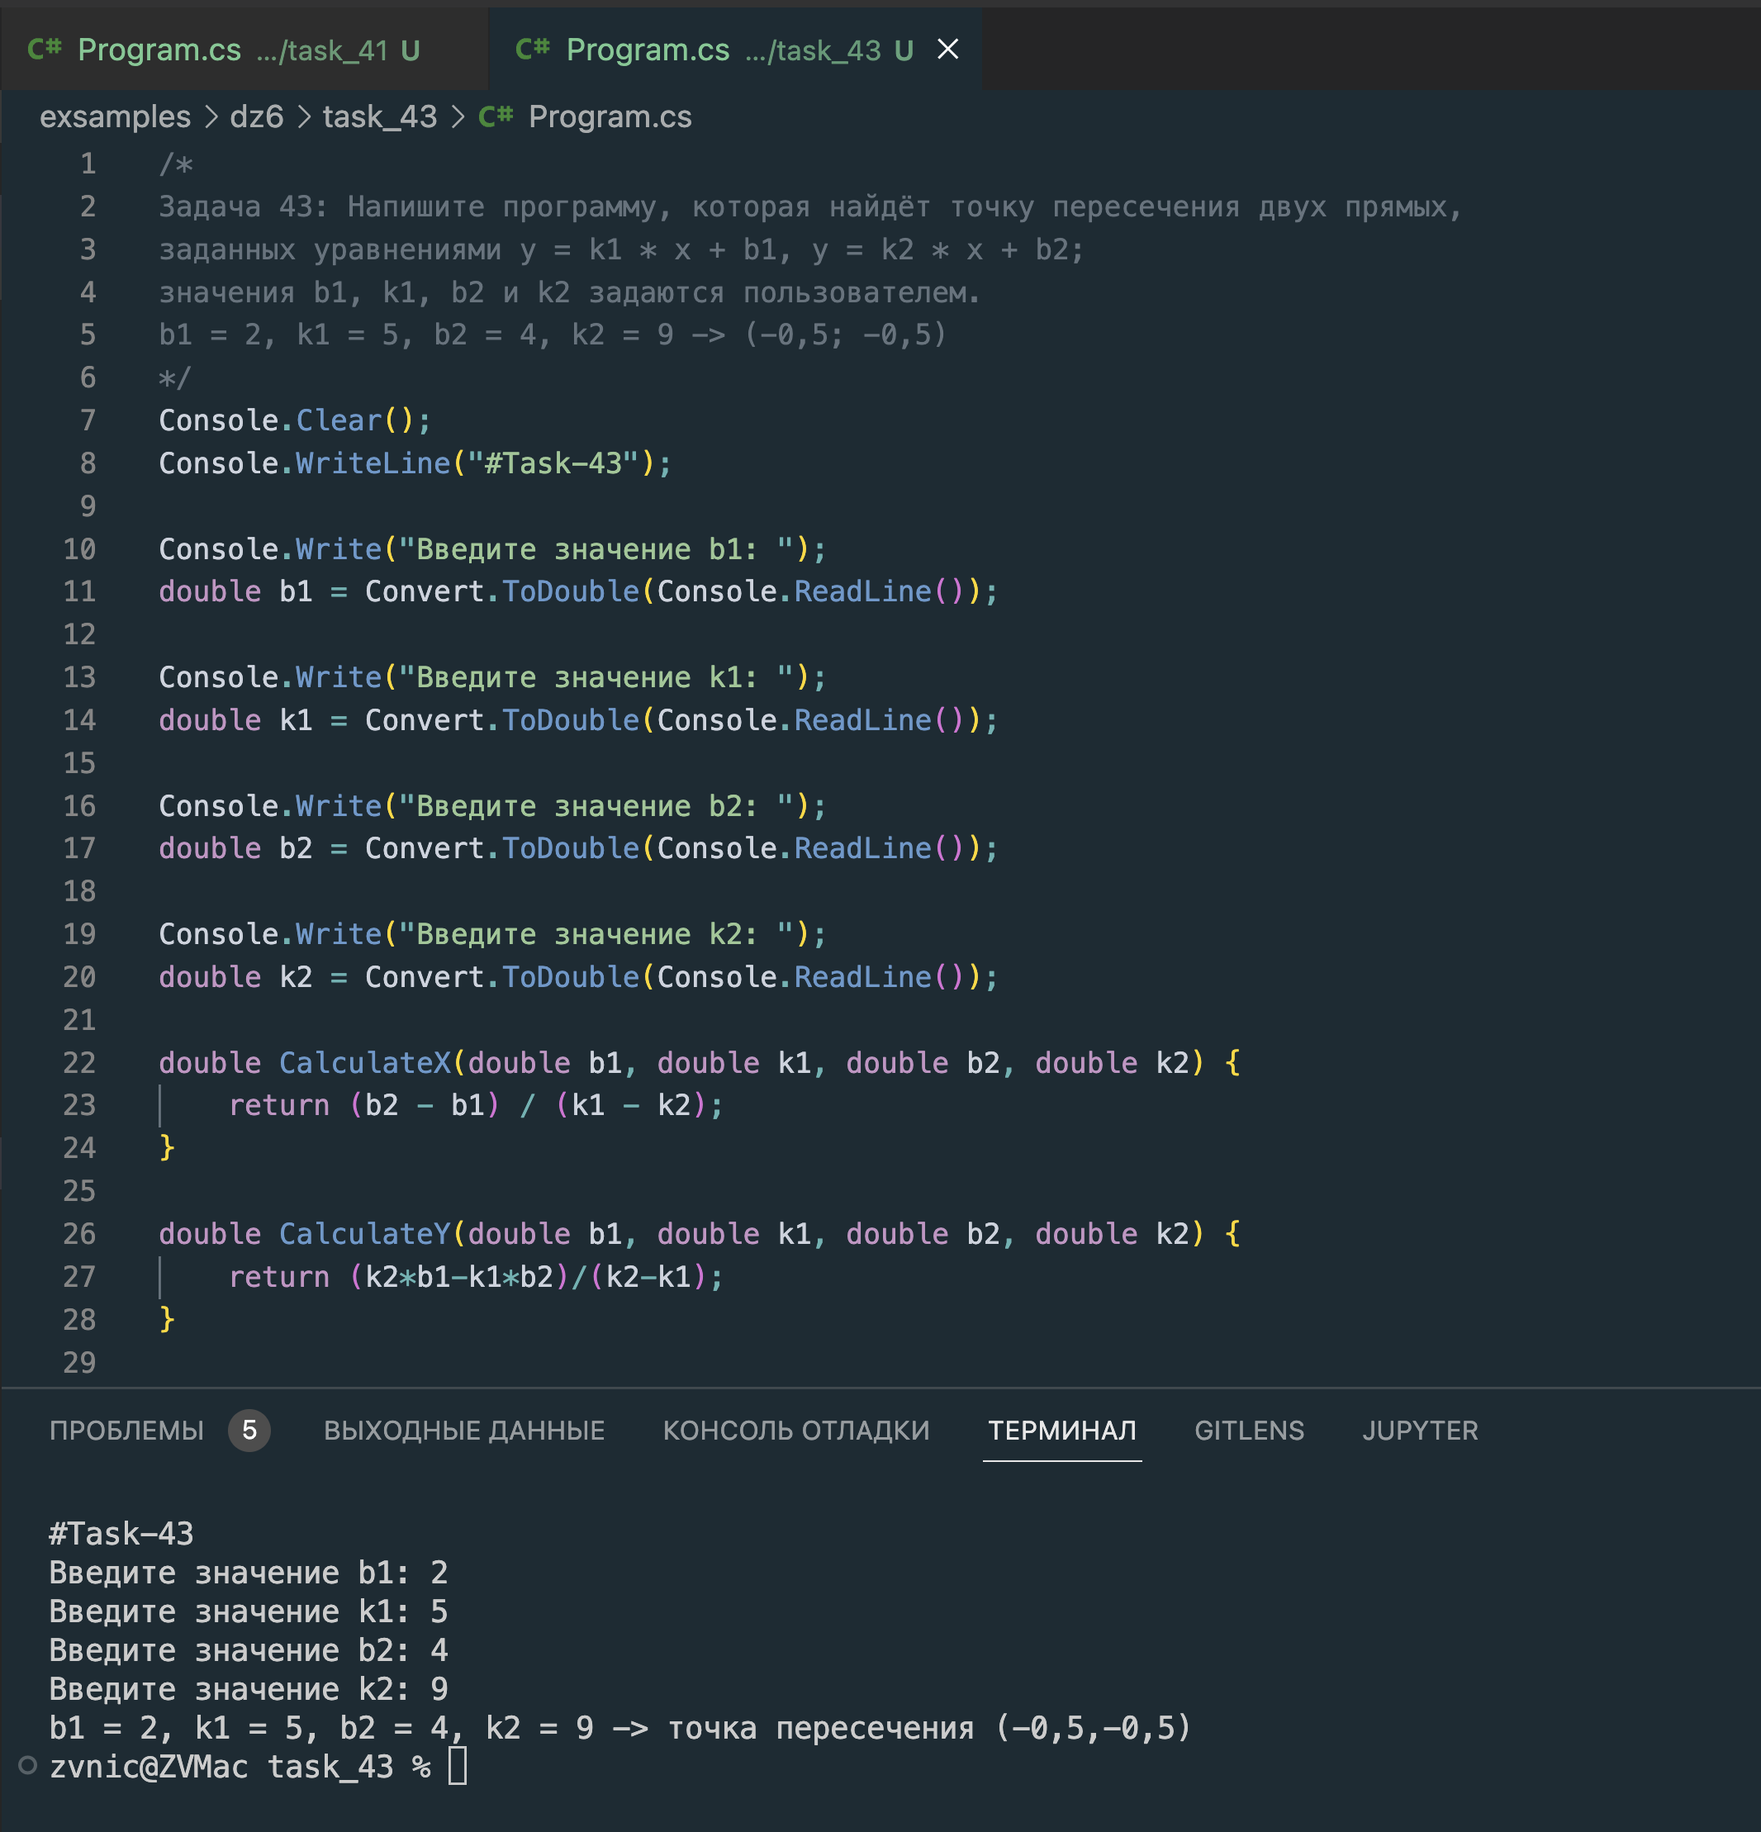
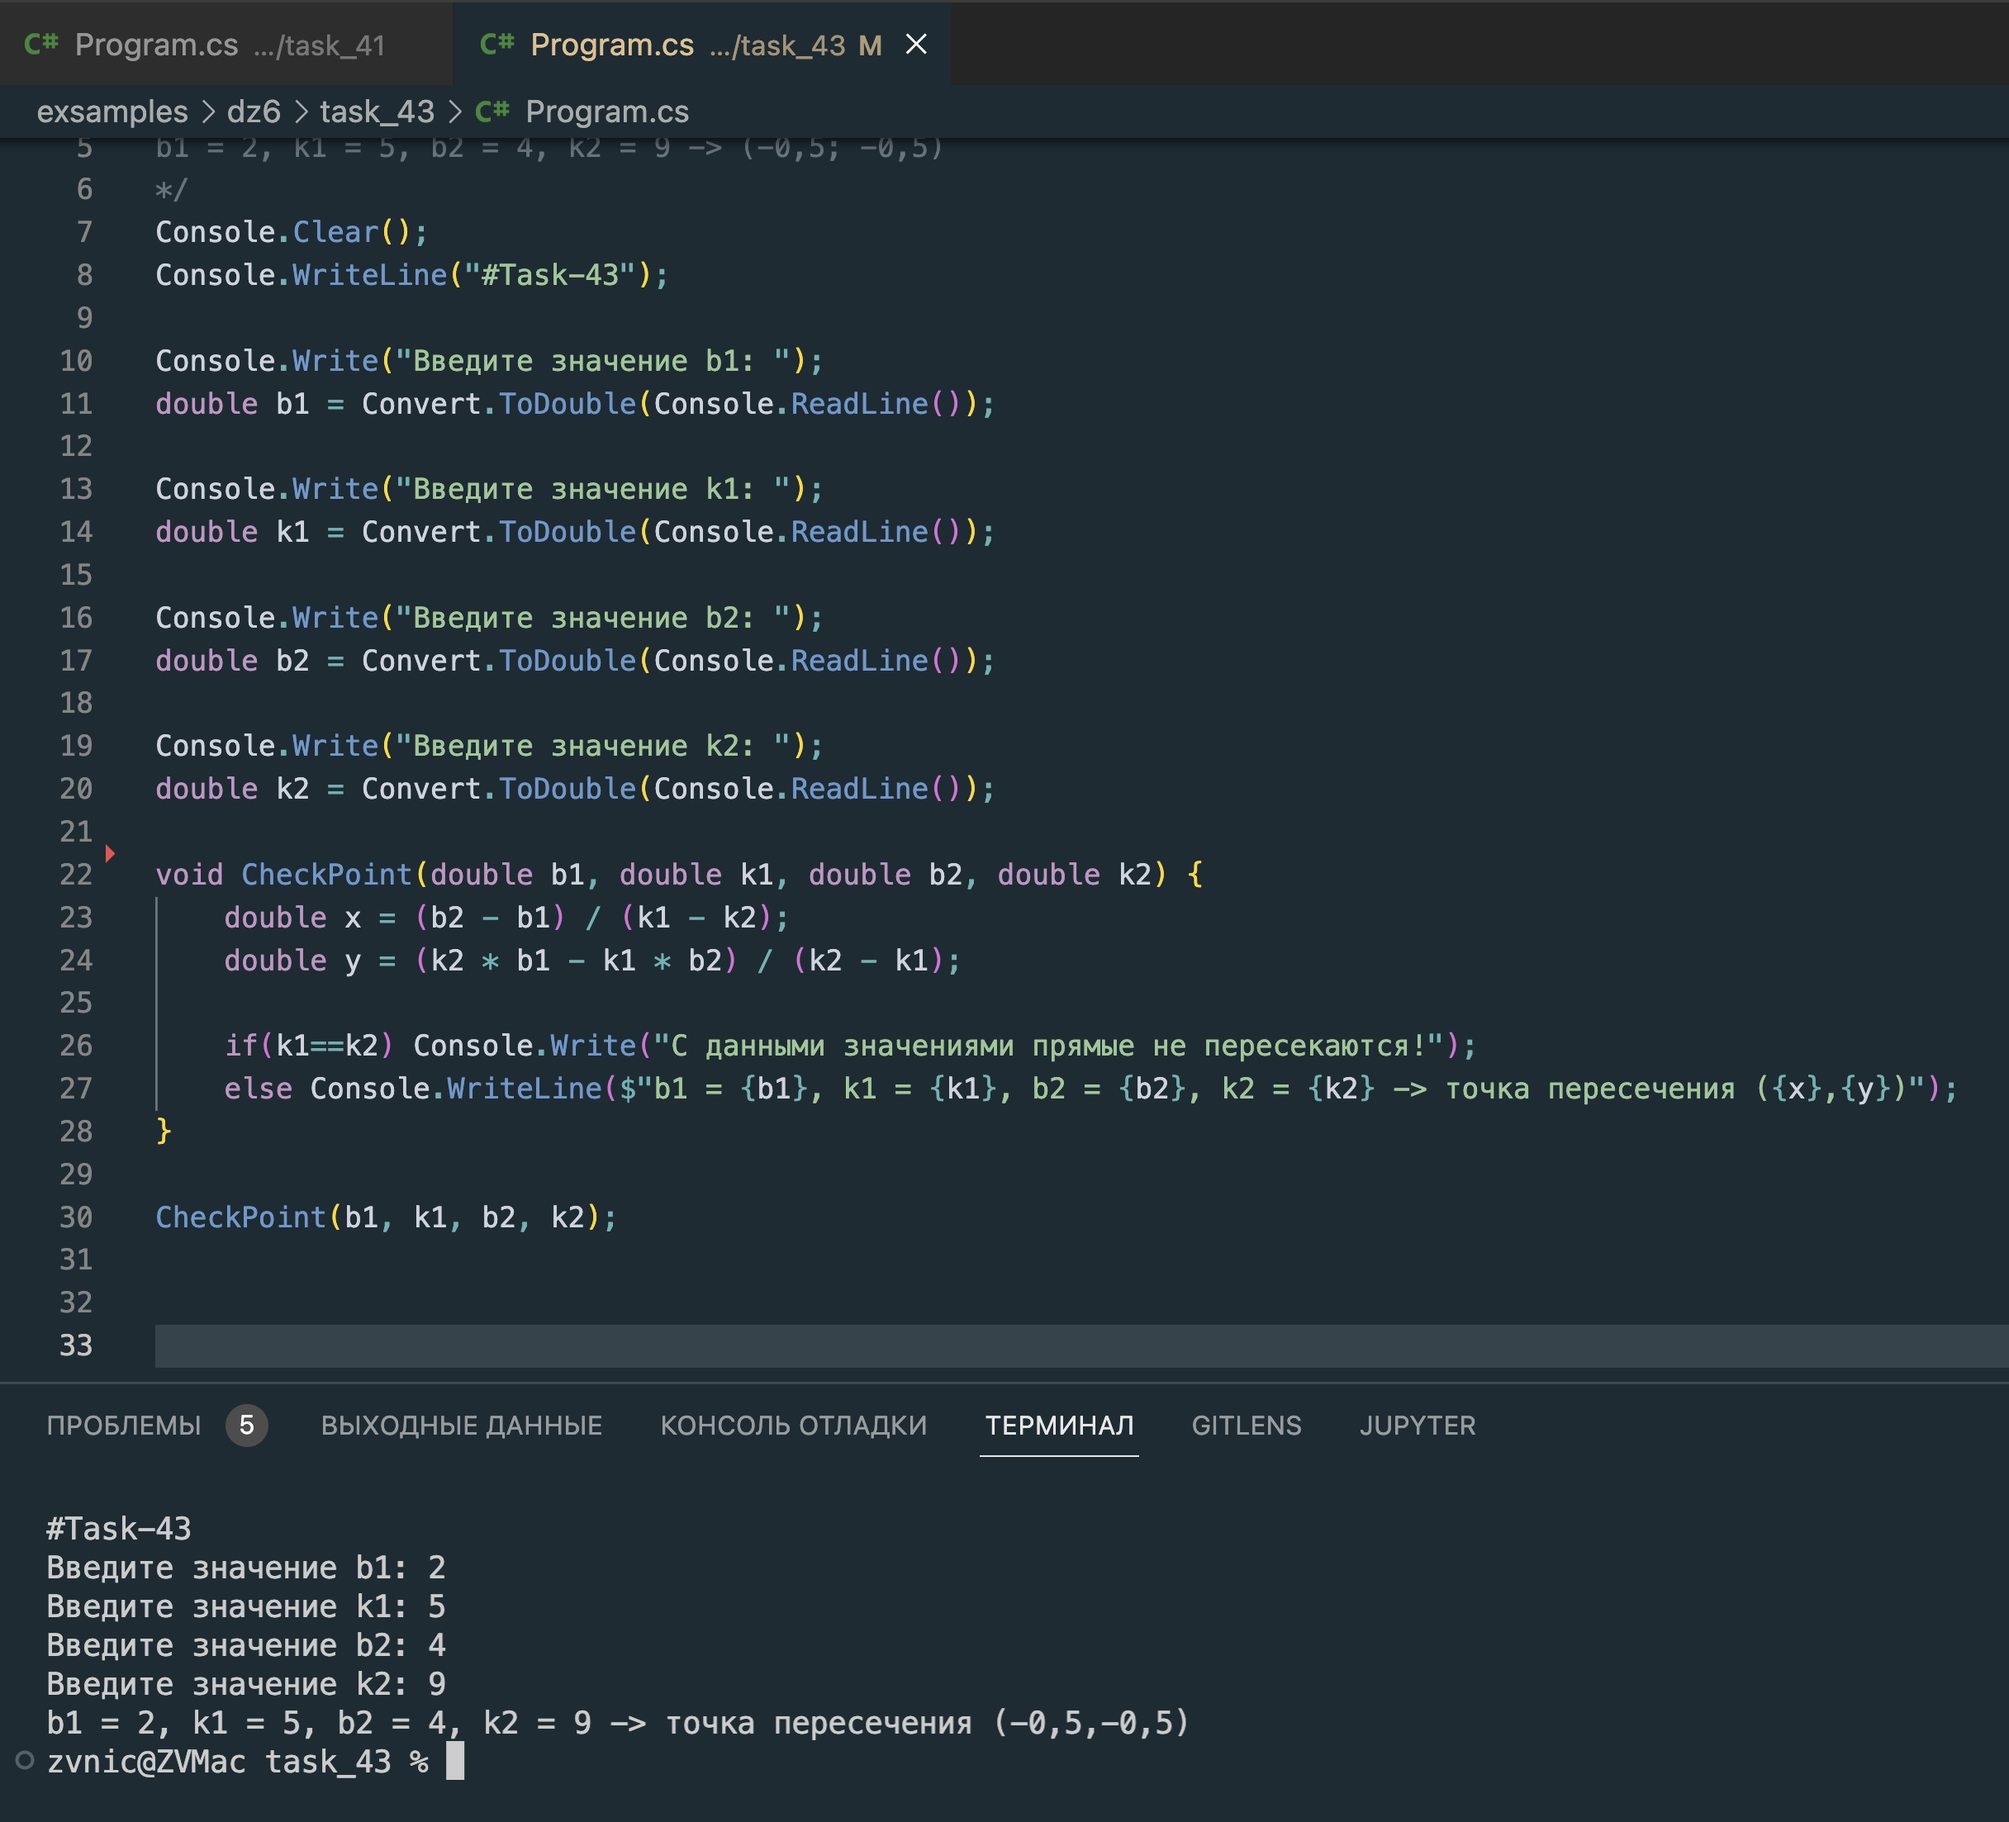
dz6 - task-41, 43 done

diff --git a/dz6/task_43/Program.cs b/dz6/task_43/Program.cs
@@ -19,14 +19,6 @@ double b2 = Convert.ToDouble(Console.ReadLine());
 Console.Write("Введите значение k2: ");
 double k2 = Convert.ToDouble(Console.ReadLine());
 
-double CalculateX(double b1, double k1, double b2, double k2) {
-    return (b2 - b1) / (k1 - k2);
-}
-
-double CalculateY(double b1, double k1, double b2, double k2) {
-    return (k2*b1-k1*b2)/(k2-k1);
-}
-
 void CheckPoint(double b1, double k1, double b2, double k2) {
     double x = (b2 - b1) / (k1 - k2);
     double y = (k2 * b1 - k1 * b2) / (k2 - k1);
